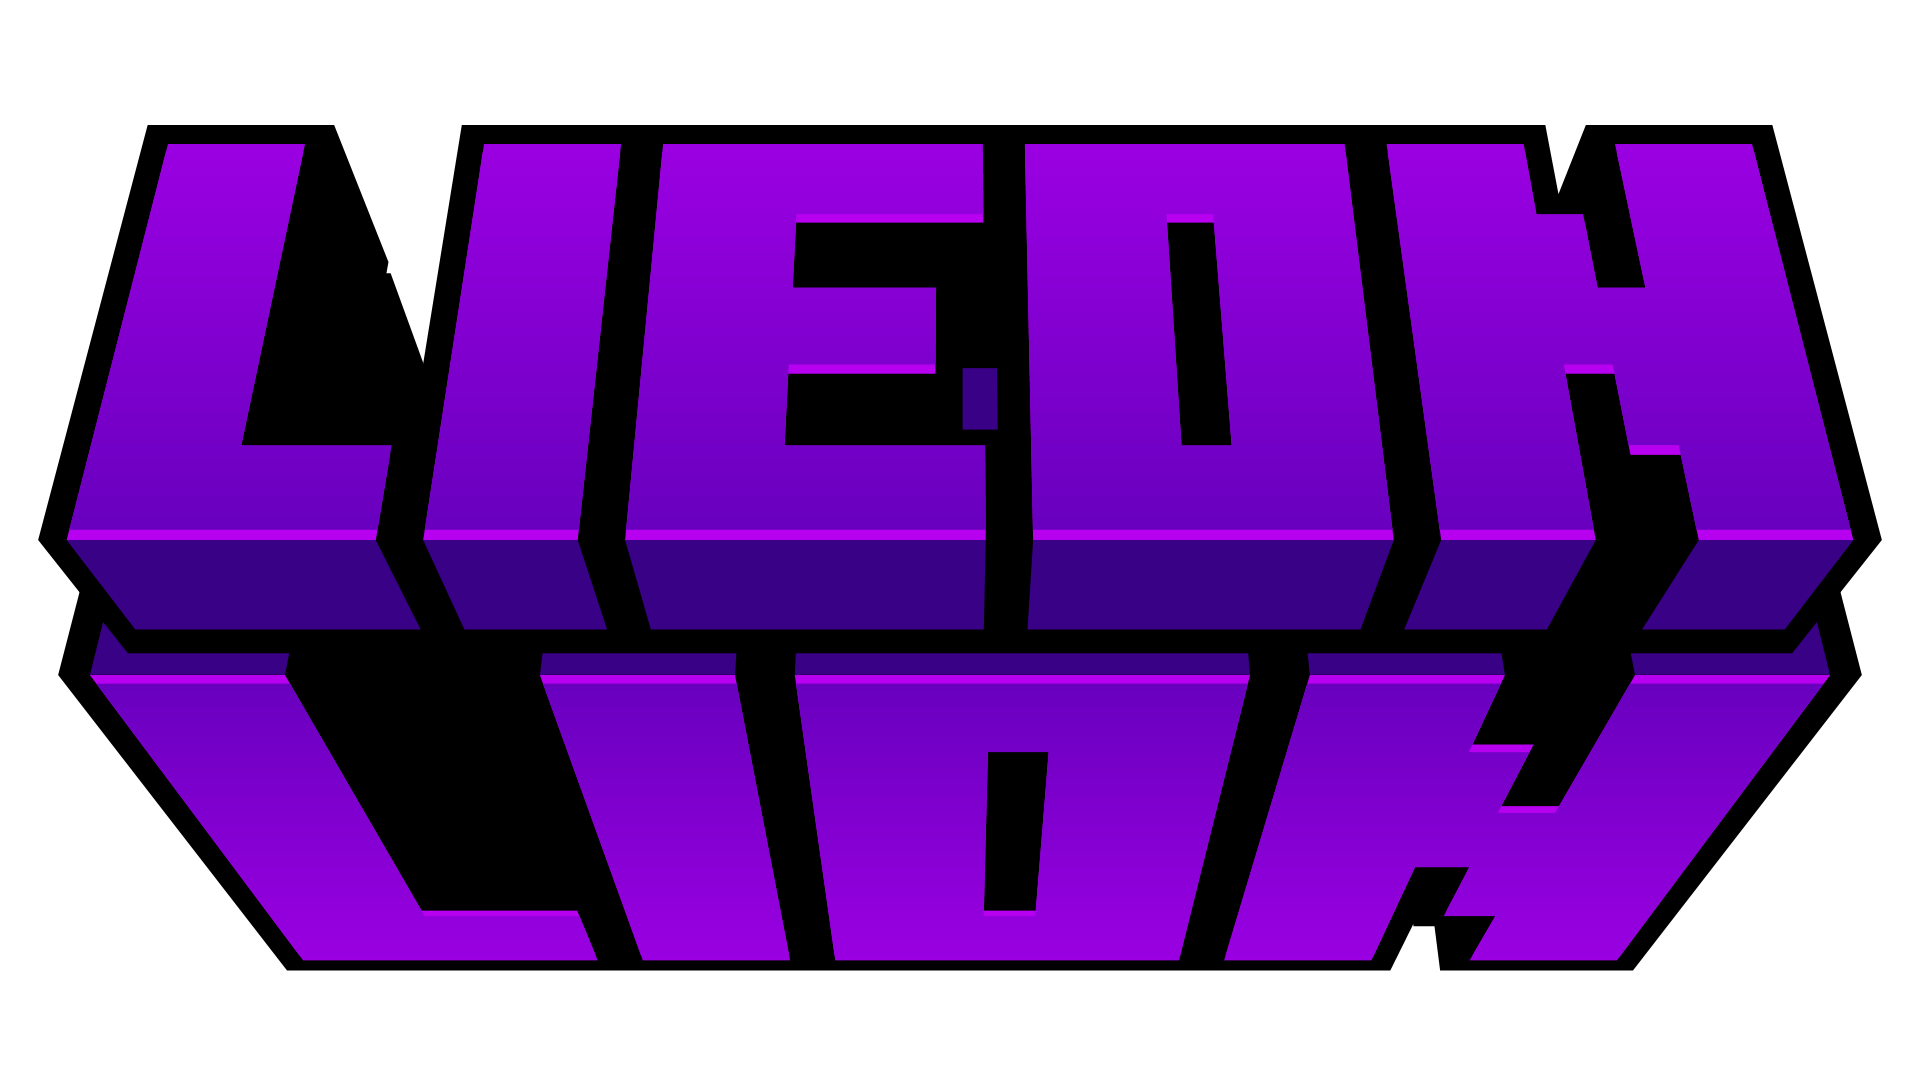
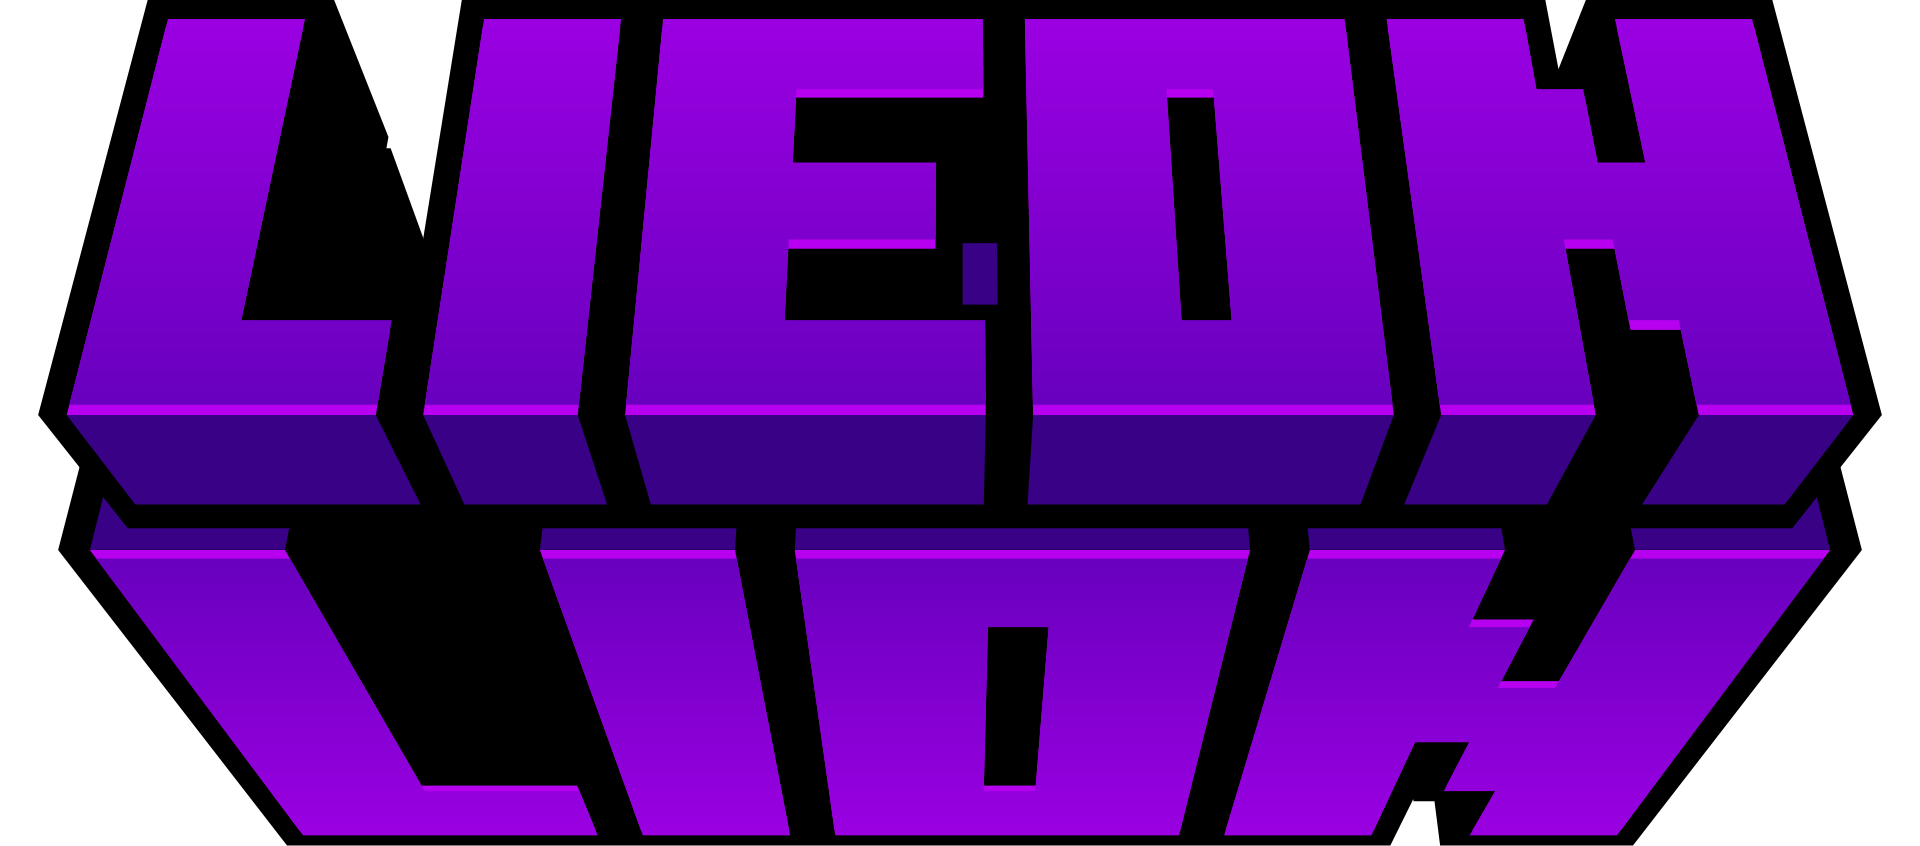
¯\_(ツ)_/¯

diff --git a/mods/index.html b/mods/index.html
@@ -9,7 +9,7 @@
 <body>
     <header>
         <a class="logo" href="/LieOnLion/"> 
-            <img src="/LieOnLion/img/enderitelogo.png" height="50px" alt="logo">
+            <img src="/LieOnLion/img/lieonlion.png" height="70em" alt="logo">
         </a>
         <nav>
             <ul class="nav">

diff --git a/contact/index.html b/contact/index.html
@@ -9,7 +9,7 @@
 <body>
     <header>
         <a class="logo" href="/LieOnLion/">
-            <img src="/LieOnLion/img/enderitelogo.png" height="50px" alt="logo">
+            <img src="/LieOnLion/img/lieonlion.png" height="70em" alt="logo">
         </a>
         <nav>
             <ul class="nav">

diff --git a/index.html b/index.html
@@ -9,7 +9,7 @@
 <body>
     <header>
         <a class="logo" href="/LieOnLion/">
-            <img src="/LieOnLion/img/enderitelogo.png" height="50px" alt="logo">
+            <img src="/LieOnLion/img/lieonlion.png" height="70em" alt="logo">
         </a>
         <nav>
             <ul class="nav">

diff --git a/media/index.html b/media/index.html
@@ -9,7 +9,7 @@
 <body>
     <header>
         <a class="logo" href="/LieOnLion/">
-            <img src="/LieOnLion/img/enderitelogo.png" height="50px" alt="logo">
+            <img src="/LieOnLion/img/lieonlion.png" height="70em" alt="logo">
         </a>
         <nav>
             <ul class="nav">
